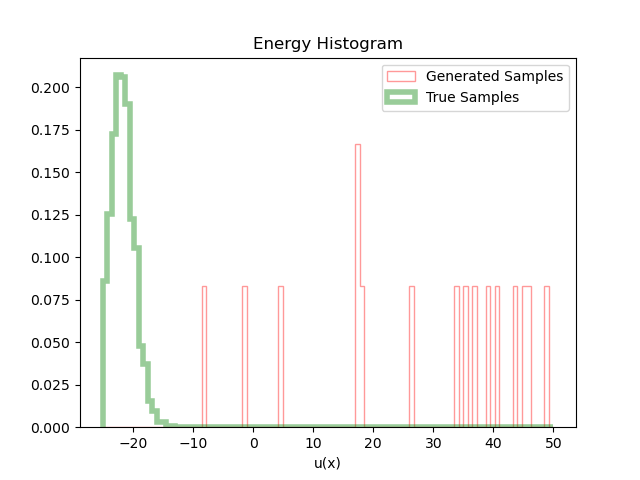
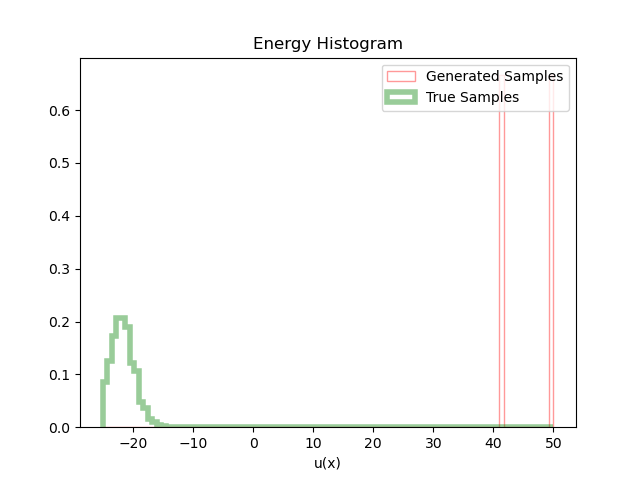
plotted the final ones

diff --git a/eval_and_plot.py b/eval_and_plot.py
@@ -186,8 +186,8 @@ def plot_generating_flow(args, data, flow, prior, target, latent, samples, model
             linewidth=4,
             label='True Samples');
     
-        # plt.hist(energies_bg, bins=100, density=True, range=(min_energy, 50), alpha=0.4, histtype='step', linewidth=4,
-            # color="b", label="Final Weighted Samples", weights=np.exp(-log_w));
+        plt.hist(energies_bg, bins=100, density=True, range=(min_energy, 50), alpha=0.4, histtype='step', linewidth=4,
+            color="b", label="Final Weighted Samples", weights=np.exp(-log_w));
 # 
         plt.xlabel("u(x)", fontsize=10)
         # plt.xticks([...])
@@ -195,7 +195,7 @@ def plot_generating_flow(args, data, flow, prior, target, latent, samples, model
         plt.title('Energy Histogram')
         plt.legend(fontsize=10)
 
-        save_best_path = f"final_generated_hists/model_{model_name}_lamb_{lamb}.png"
+        save_best_path = f"final_generated_hists/model_{model_name}_lamb_{lamb}_with_weights.png"
         os.makedirs(os.path.dirname(save_best_path), exist_ok=True)
         plt.savefig(save_best_path)
 
@@ -263,8 +263,8 @@ def main():
         samples = 10000
         device = torch.device("cuda:0" if torch.cuda.is_available() else "cpu")
         latent = prior.sample(size=[samples, 4, 2], device=device)
-        lambs = [0.0]
-        # lambs = [0.0, 0.1, 0.3, 0.5]
+        # lambs = [0.0]
+        lambs = [0.1, 0.3, 0.5]
         # saved_models_dir = f"{model_dir}/best_model_{args.model}/n_data_{args.n_data}"
         # saved_models_dir = os.path.join(os.getcwd(), models_path)
 
